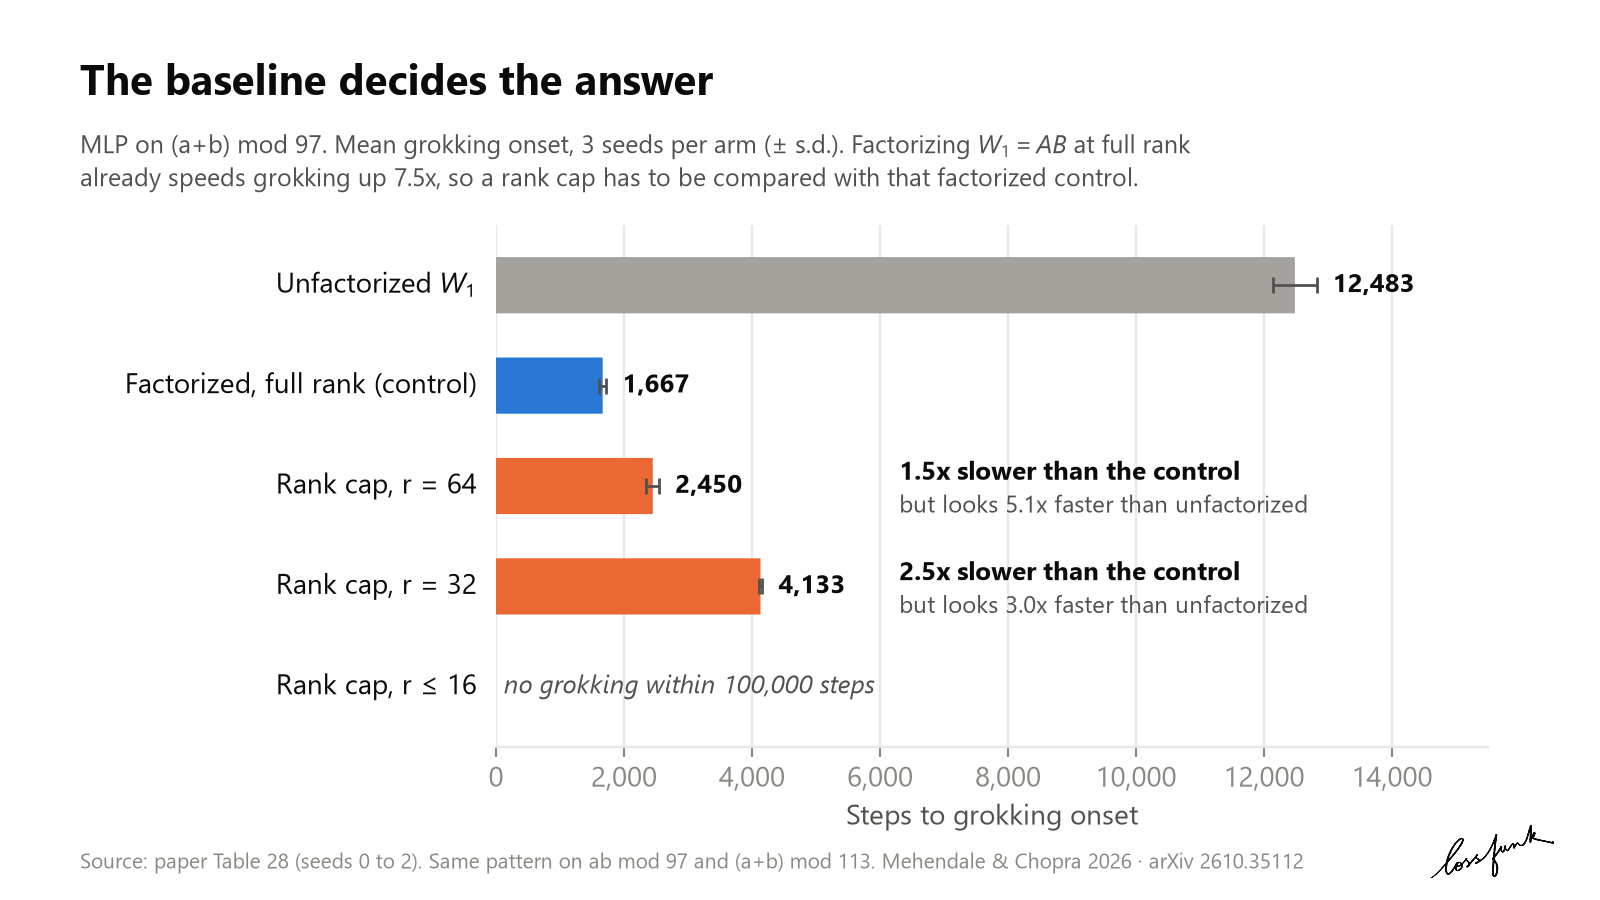
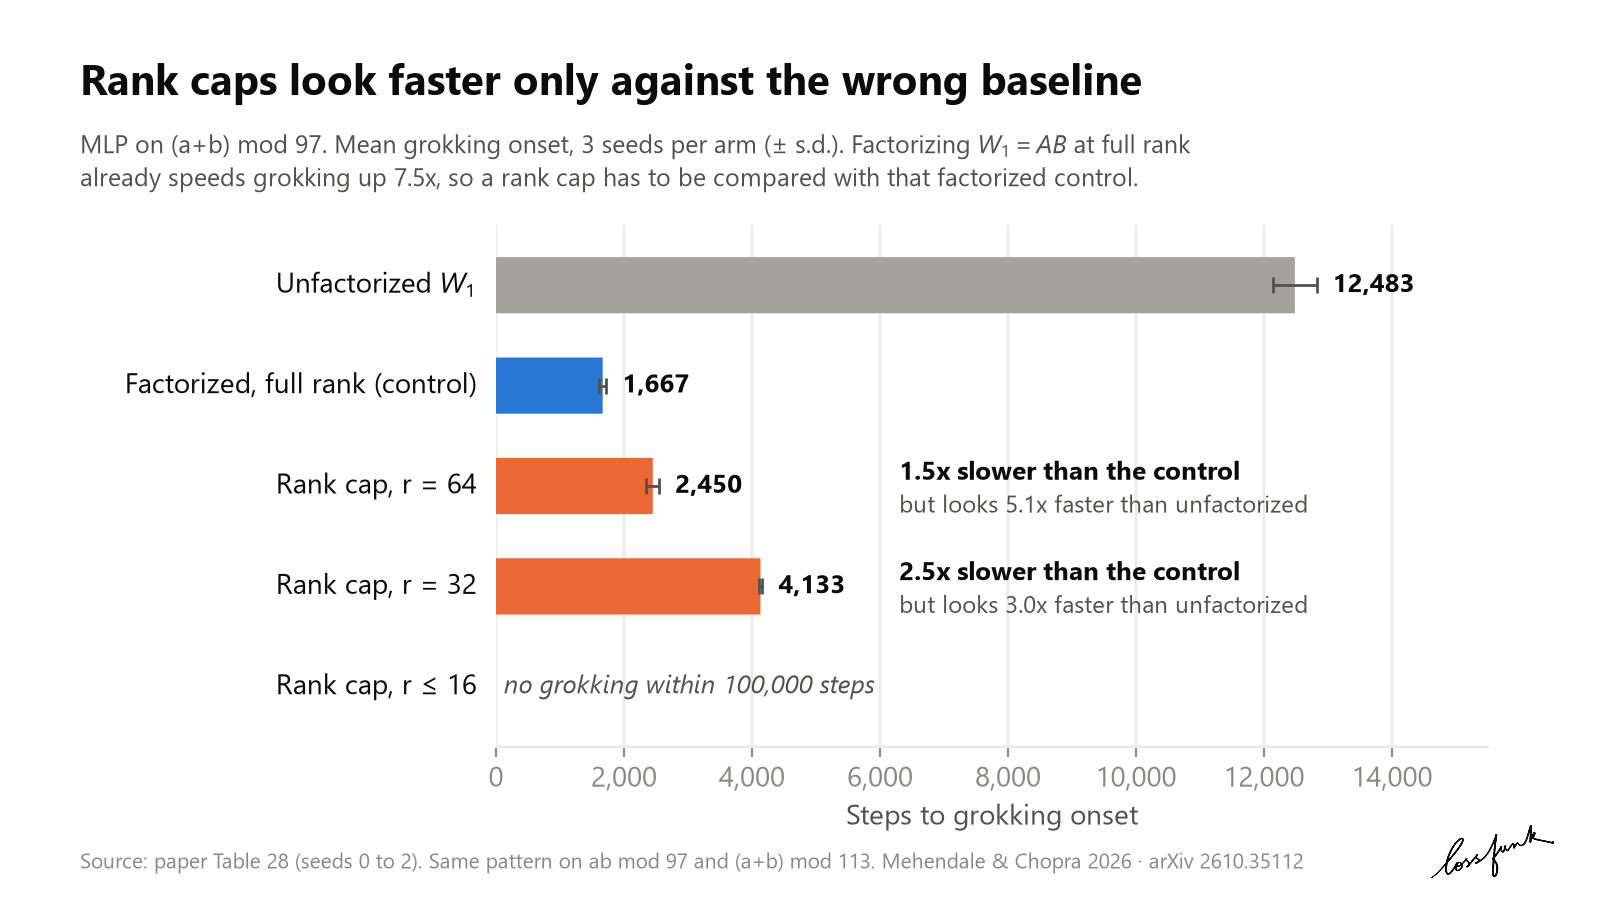
Retitle the factorization chart in plain words
"Rank caps look faster only against the wrong baseline" replaces "The
baseline decides the answer", in the chart and its caption.

Changed region(s): [[0.0312, 0.0622, 0.7188, 0.1244]]

diff --git a/subspace-crystallization/index.html b/subspace-crystallization/index.html
@@ -415,9 +415,9 @@
         </p>
     </div>
     <div class="container blog main gray">
-        <img class="figure" src="static/figures/fig_factorization.png" alt="Grokking onset for the unfactorized MLP, the factorized control and rank caps">
+        <img class="figure" src="static/figures/fig_factorization.png?v=2" alt="Grokking onset for the unfactorized MLP, the factorized control and rank caps">
         <p class="caption">
-            <b>The baseline decides the answer.</b> Against the factorized control, rank caps delay grokking. Against the unfactorized network, the same caps look faster.
+            <b>Rank caps look faster only against the wrong baseline.</b> Against the factorized control, rank caps delay grokking. Against the unfactorized network, the same caps look faster.
         </p>
     </div>
     <div class="container blog main">
